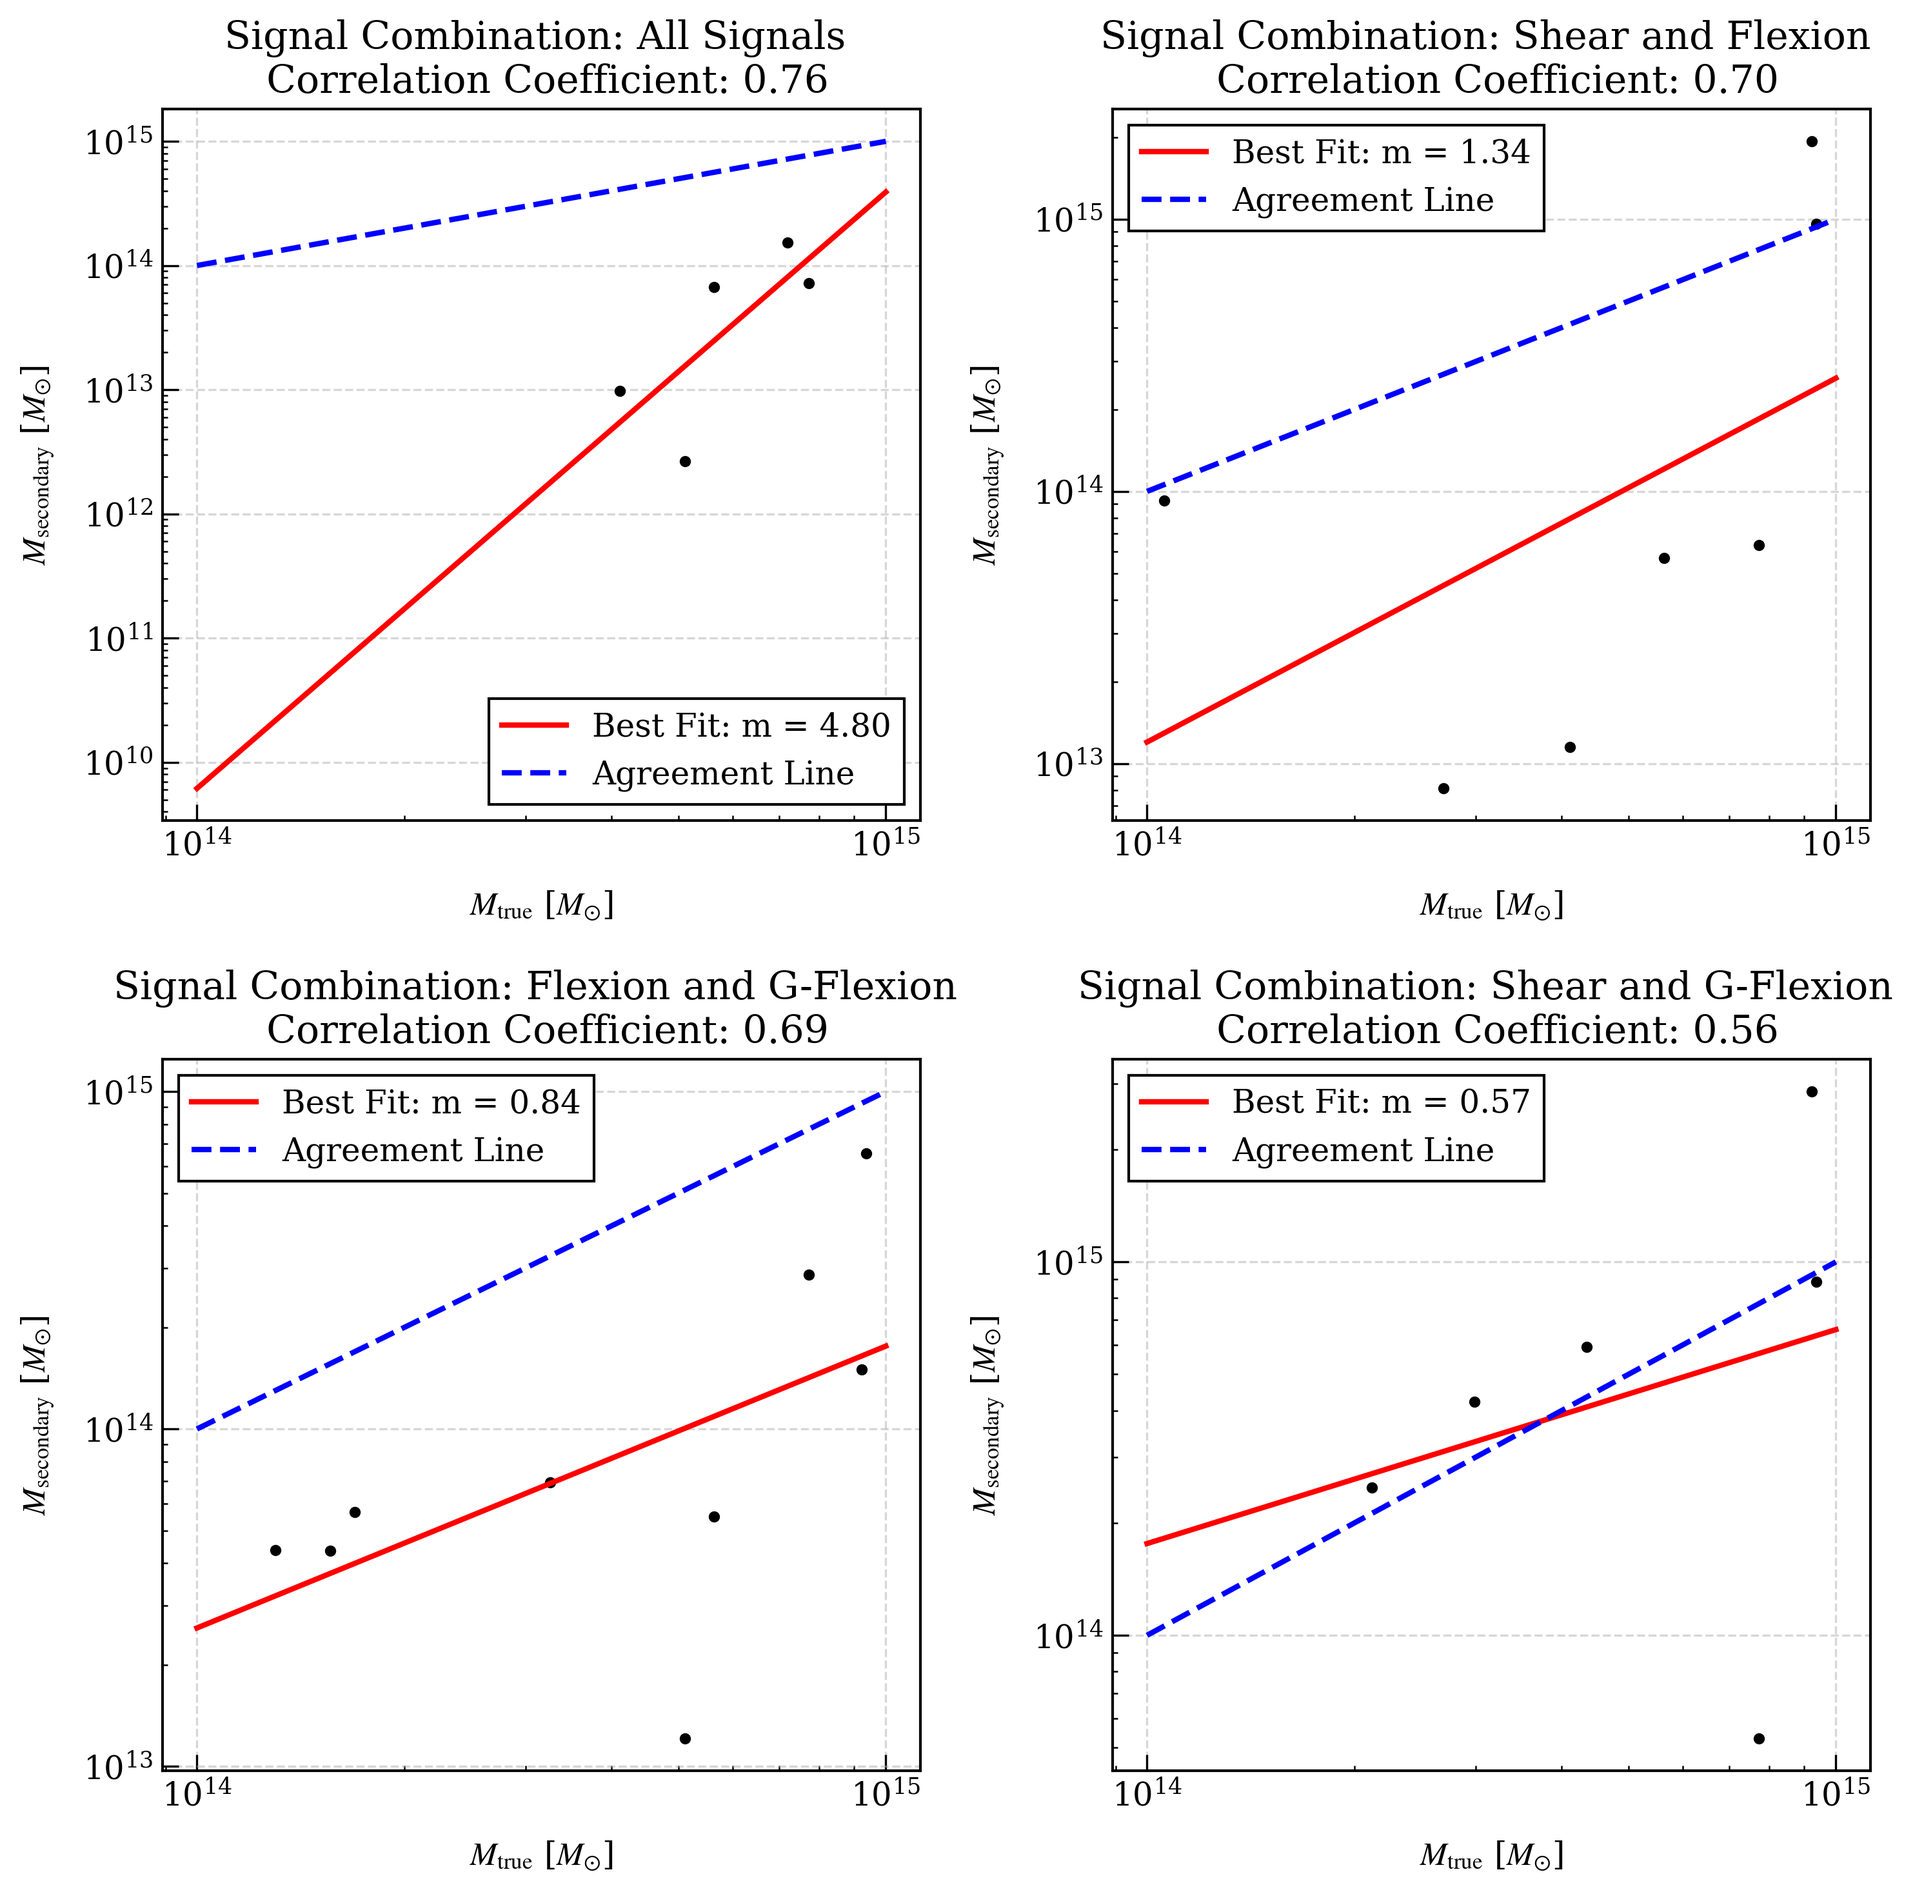
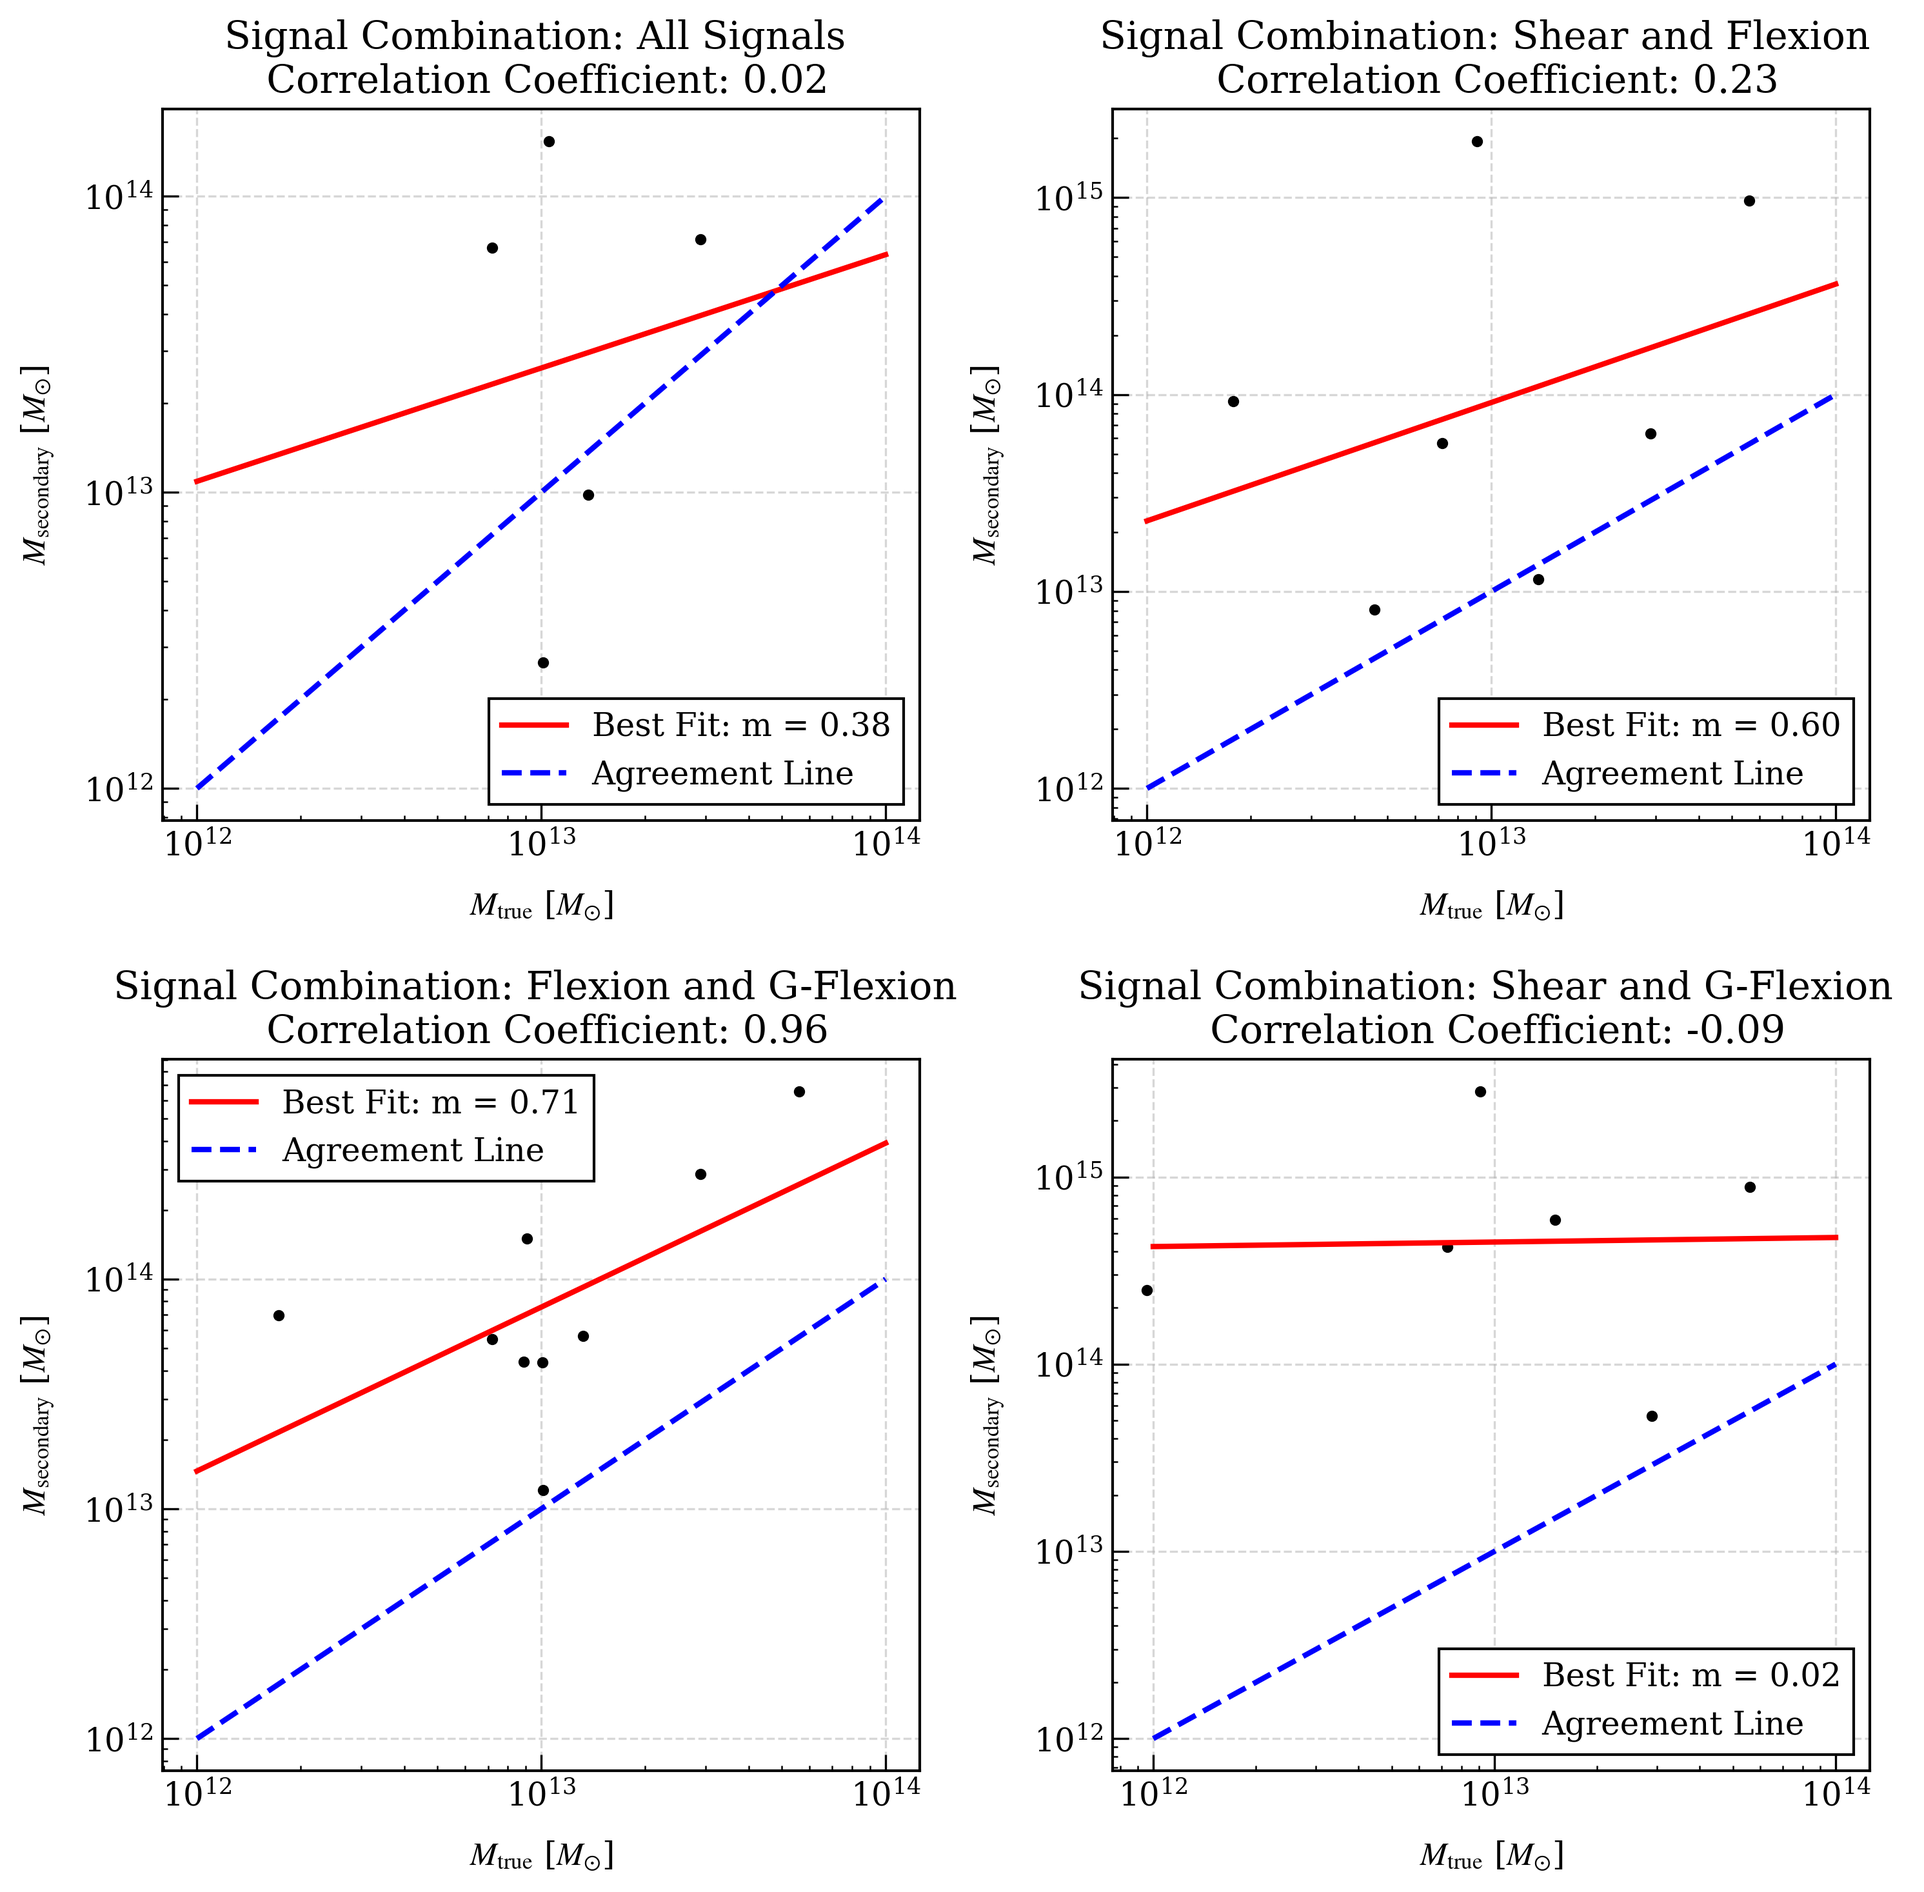
Refactor mass correlation plot function to improve data handling and visualization

diff --git a/tests_mdark.py b/tests_mdark.py
@@ -55,7 +55,6 @@ def build_mass_correlation_plot(ID_file, file_name, plot_name):
     true_primary_coords = []
     true_secondary_coords = []
 
-
     for ID in ID_results['MainHaloID'].values:
         halo = halos[ID]
         # Remember to transform the coordinates by the centroid
@@ -74,6 +73,11 @@ def build_mass_correlation_plot(ID_file, file_name, plot_name):
         else:
             true_secondary_masses.append(np.nan)
             true_secondary_coords.append([np.nan, np.nan])
+    
+    true_primary_masses = np.array(true_primary_masses)
+    true_secondary_masses = np.array(true_secondary_masses)
+    true_primary_coords = np.array(true_primary_coords)
+    true_secondary_coords = np.array(true_secondary_coords)
 
     # Extract inferred masses
     # Adjust as needed for the columns available in the CSV produced by run_test_parallel
@@ -93,10 +97,11 @@ def build_mass_correlation_plot(ID_file, file_name, plot_name):
 
     # Plot the correlation between true and inferred masses
     fig, ax = plt.subplots(2, 2, figsize=(10, 10))
+    fig.suptitle('Reconstruction of Total Cluster Masses')
     ax = ax.flatten()
     for i in range(4):
         # Filter out zero or invalid values if needed
-        valid_indices = (masses[i] > 0) & (true_mass > 0)
+        valid_indices = (masses[i] > 0) 
         true_mass_temp = true_mass[valid_indices]
         inferred_mass_temp = masses[i][valid_indices]
 
@@ -124,7 +129,7 @@ def build_mass_correlation_plot(ID_file, file_name, plot_name):
         ax[i].set_title(f'Signal Combination: {signals[i]} \n Correlation Coefficient: {corr:.2f}')
 
     fig.tight_layout()
-    fig.savefig(plot_name)
+    fig.savefig(plot_name + '_mass_correlation.png')
 
     # If you need to parse and plot primary/secondary coordinates and masses,
     # you can parse them here similarly. For example:
@@ -194,9 +199,12 @@ def build_mass_correlation_plot(ID_file, file_name, plot_name):
     # Now you can plot the primary and secondary masses and coordinates
     # For example, you can plot the primary masses against the true masses
     fig, ax = plt.subplots(2, 2, figsize=(10, 10))
+    fig.suptitle('Reconstruction of Primary Halo Masses')
     ax = ax.flatten()
     for i in range(4):
-        valid_indices = (primary_masses[i] > 0) & (true_primary_masses[i] > 0)
+        # Cycle through the signal combinations
+        # Filter out zero or invalid values if needed
+        valid_indices = (primary_masses[i] > 0) 
         true_mass_temp = true_primary_masses[valid_indices]
         primary_mass_temp = primary_masses[i][valid_indices]
 
@@ -228,9 +236,10 @@ def build_mass_correlation_plot(ID_file, file_name, plot_name):
 
     # Similarly, you can plot the secondary masses against the true masses
     fig, ax = plt.subplots(2, 2, figsize=(10, 10))
+    fig.suptitle('Reconstruction of Largest Subhalo Masses')
     ax = ax.flatten()
     for i in range(4):
-        valid_indices = (secondary_masses[i] > 0) & (true_secondary_masses[i] > 0)
+        valid_indices = (secondary_masses[i] > 0)
         true_mass_temp = true_secondary_masses[valid_indices]
         secondary_mass_temp = secondary_masses[i][valid_indices]
 
@@ -239,7 +248,7 @@ def build_mass_correlation_plot(ID_file, file_name, plot_name):
         ax[i].set_yscale('log')
 
         # Add a line of best fit
-        x = np.linspace(1e14, 1e15, 100)
+        x = np.linspace(1e12, 1e14, 100)
         if len(true_mass_temp) > 1 and len(secondary_mass_temp) > 1:
             try:
                 m, b = np.polyfit(np.log10(true_mass_temp), np.log10(secondary_mass_temp), 1)
@@ -262,32 +271,46 @@ def build_mass_correlation_plot(ID_file, file_name, plot_name):
 
     # Now you can plot the primary and secondary coordinates as histograms
     fig, ax = plt.subplots(2, 2, figsize=(10, 10))
+    fig.suptitle('Distance from Located Primary Halo to True Primary Halo')
     ax = ax.flatten()
     for i in range(4):
         valid_indices = ~np.isnan(primary_coords[i][:, 0]) & ~np.isnan(primary_coords[i][:, 1])
         x = primary_coords[i][valid_indices, 0]
         y = primary_coords[i][valid_indices, 1]
+        # Bin the data and plot a 2D histogram
+        bins = np.linspace(-50, 50, 50)
 
-        ax[i].hist2d(x, y, bins=50, cmap='viridis')
+        ax[i].hist2d(x, y, bins=bins, cmap='viridis')
         ax[i].set_xlabel('x [arcseconds]')
         ax[i].set_ylabel('y [arcseconds]')
-        ax[i].set_title(f'Signal Combination: {signals[i]} \n Primary Lens Coordinates')
+        ax[i].set_title(f'Signal Combination: {signals[i]}')
+
+        # Add a colorbar
+        cbar = plt.colorbar(ax[i].collections[0], ax=ax[i])
+        cbar.set_label('Number of Halos')
+
 
     fig.tight_layout()
     fig.savefig(plot_name + '_primary_coords.png')
 
     # Similarly, you can plot the secondary coordinates as histograms
     fig, ax = plt.subplots(2, 2, figsize=(10, 10))
+    fig.suptitle('Distance from Largest Located Subhalo to Largest True Subhalo')
     ax = ax.flatten()
     for i in range(4):
         valid_indices = ~np.isnan(secondary_coords[i][:, 0]) & ~np.isnan(secondary_coords[i][:, 1])
         x = secondary_coords[i][valid_indices, 0]
         y = secondary_coords[i][valid_indices, 1]
+        bins = np.linspace(-50, 50, 50)
 
-        ax[i].hist2d(x, y, bins=50, cmap='viridis')
+        ax[i].hist2d(x, y, bins=bins, cmap='viridis')
         ax[i].set_xlabel('x [arcseconds]')
         ax[i].set_ylabel('y [arcseconds]')
-        ax[i].set_title(f'Signal Combination: {signals[i]} \n Secondary Lens Coordinates')
+        ax[i].set_title(f'Signal Combination: {signals[i]}')
+
+        # Add a colorbar
+        cbar = plt.colorbar(ax[i].collections[0], ax=ax[i])
+        cbar.set_label('Number of Halos')
 
     fig.tight_layout()
     fig.savefig(plot_name + '_secondary_coords.png')
@@ -816,7 +839,7 @@ if __name__ == '__main__':
     # build_ID_list(18, 30, 0.194)
     # build_ID_file(30, 'Output/MDARK/Test19/ID_options.csv', 19, 0.194)
     # process_md_set(19)
-    build_mass_correlation_plot('Output/MDARK/Test19/ID_file_19.csv', 'Output/MDARK/Test19/results_19.csv', 'Output/MDARK/mass_correlations/mass_correlation_19')
+    build_mass_correlation_plot('Output/MDARK/Test19/ID_file_19.csv', 'Output/MDARK/Test19/results_19.csv', 'Output/MDARK/mass_correlations/test_19')
     # Pick out a halo, run the pipeline, look at the results
 
     raise ValueError('Stop here')
